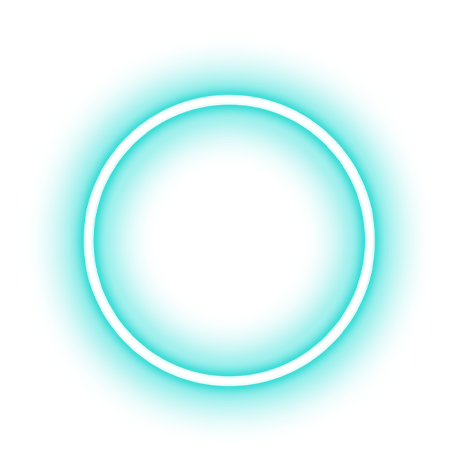
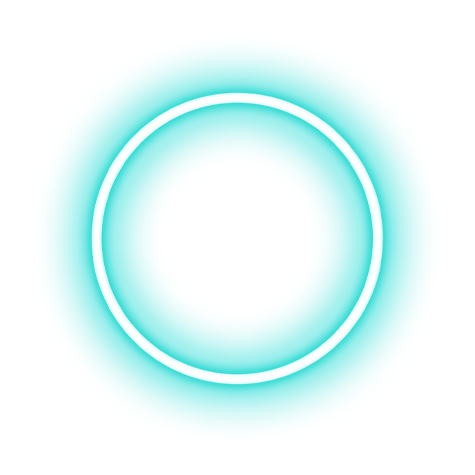
fix(): translate image

Changed region(s): [[0.1179, 0.2063, 0.56, 0.8253], [0.4421, 0.1768, 0.8547, 0.7958]]

diff --git a/assets/styles/modules/absolute.scss b/assets/styles/modules/absolute.scss
@@ -65,8 +65,8 @@
   }
 
   &--p1 {
-    top: 20.5%;
-    left: 46%;
+    top: 20%;
+    left: 47.5%;
   }
 
   &--p2 {
